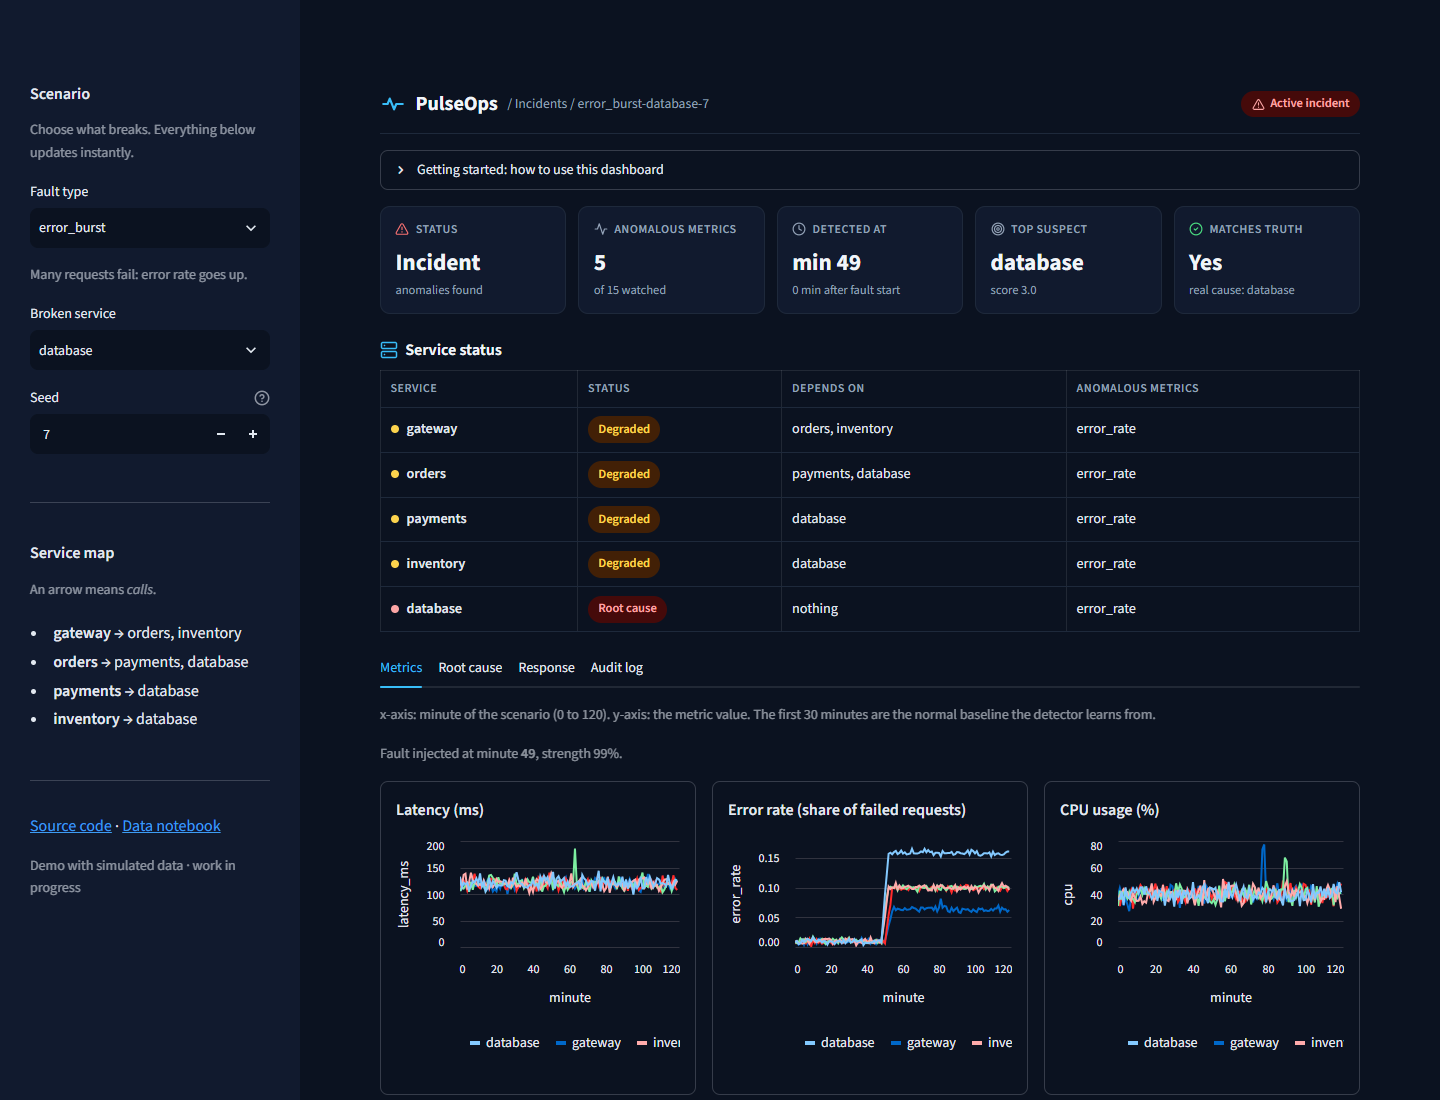
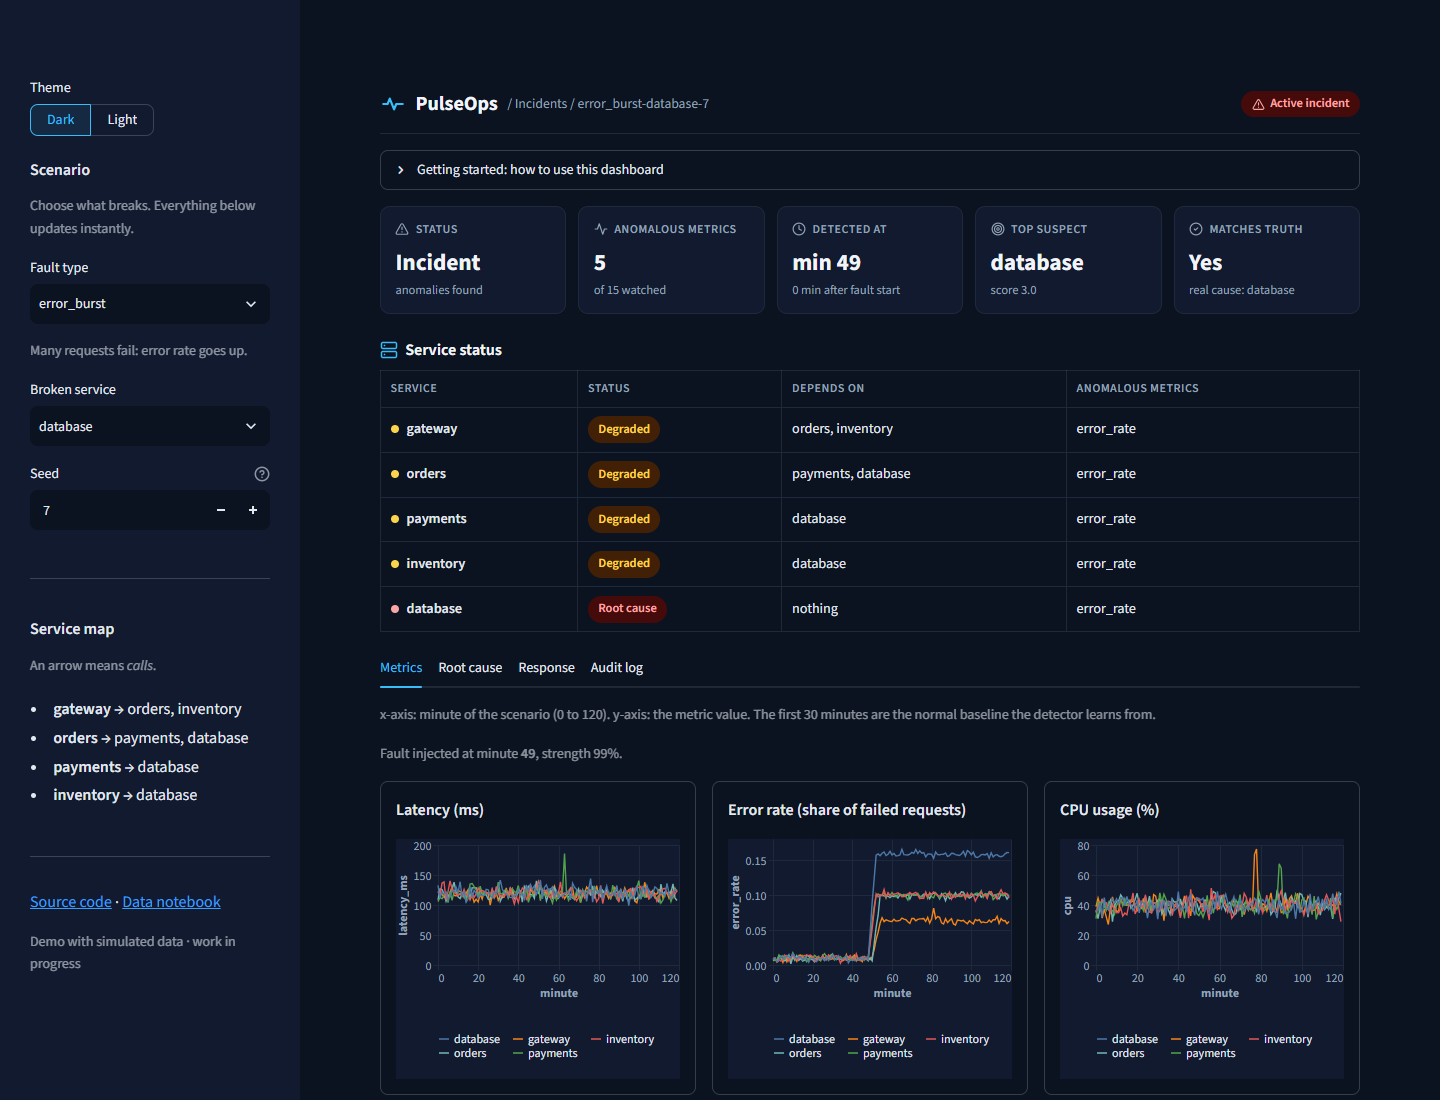
Dark/light theme switch in the sidebar, themed Altair charts, light screenshot

diff --git a/src/pulseops/ui.py b/src/pulseops/ui.py
@@ -6,6 +6,9 @@ Icon shapes are from Lucide (https://lucide.dev, ISC licence): 24x24, stroked li
 
 import html
 
+import altair as alt
+import pandas as pd
+
 ICONS = {
     "activity": '<path d="M22 12h-4l-3 9L9 3l-3 9H2"/>',
     "alert": '<path d="m21.73 18-8-14a2 2 0 0 0-3.48 0l-8 14A2 2 0 0 0 4 21h16a2 2 0 0 0 '
@@ -27,78 +30,156 @@ ICONS = {
     "pulse": '<path d="M3 12h4l2-5 4 10 2-5h6"/>',
 }
 
-# Status -> (label, text colour, background colour)
-STATUS = {
-    "root": ("Root cause", "#fca5a5", "#450a0a"),
-    "affected": ("Degraded", "#fcd34d", "#422006"),
-    "ok": ("Operational", "#86efac", "#052e16"),
+# Two palettes. Every colour on the page comes from here, so switching theme is one lookup.
+PALETTES = {
+    "dark": {
+        "bg": "#0b1220",
+        "panel": "#111a2e",
+        "border": "#1e293b",
+        "text": "#e2e8f0",
+        "strong": "#f1f5f9",
+        "muted": "#94a3b8",
+        "accent": "#38bdf8",
+        "red": "#fca5a5",
+        "red_bg": "#450a0a",
+        "amber": "#fcd34d",
+        "amber_bg": "#422006",
+        "green": "#86efac",
+        "green_bg": "#052e16",
+        "num_bg": "#0c4a6e",
+        "num": "#bae6fd",
+    },
+    "light": {
+        "bg": "#ffffff",
+        "panel": "#f8fafc",
+        "border": "#e2e8f0",
+        "text": "#1e293b",
+        "strong": "#0f172a",
+        "muted": "#64748b",
+        "accent": "#0284c7",
+        "red": "#b91c1c",
+        "red_bg": "#fee2e2",
+        "amber": "#b45309",
+        "amber_bg": "#fef3c7",
+        "green": "#15803d",
+        "green_bg": "#dcfce7",
+        "num_bg": "#e0f2fe",
+        "num": "#0369a1",
+    },
 }
 
-CSS = """
+# Status -> (label, colour key). The key picks e.g. "red" and "red_bg" from the palette.
+STATUS = {
+    "root": ("Root cause", "red"),
+    "affected": ("Degraded", "amber"),
+    "ok": ("Operational", "green"),
+}
+
+# Light mode also has to repaint Streamlit's own surfaces, because the base theme
+# in .streamlit/config.toml is dark.
+LIGHT_OVERRIDES = """
+[data-testid="stApp"], [data-testid="stHeader"] {background:#ffffff; color:#1e293b;}
+[data-testid="stSidebar"] {background:#f1f5f9;}
+[data-testid="stSidebar"] *, [data-testid="stMain"] p, [data-testid="stMain"] li,
+[data-testid="stMain"] label, [data-testid="stMarkdownContainer"],
+[data-testid="stCaptionContainer"], [data-testid="stWidgetLabel"] {color:#1e293b;}
+[data-testid="stCaptionContainer"] {opacity:.75;}
+[data-baseweb="select"] > div, [data-testid="stNumberInputContainer"],
+[data-testid="stNumberInput"] input {background:#ffffff; color:#1e293b;
+  border-color:#cbd5e1;}
+[data-testid="stExpander"] details, [data-testid="stVerticalBlockBorderWrapper"] {
+  background:#ffffff; border-color:#e2e8f0;}
+[data-testid="stExpander"] summary, [data-testid="stExpander"] summary * {color:#1e293b;}
+button[data-baseweb="tab"] p {color:#334155;}
+[data-testid="stSelectbox"] div:has(> input), [role="listbox"], [role="option"] {
+  background:#ffffff; color:#1e293b;}
+[data-testid="stButtonGroup"] button[aria-checked="false"] {background:#ffffff;
+  color:#334155; border-color:#cbd5e1;}
+"""
+
+CSS_TEMPLATE = """
 <style>
 .block-container, [data-testid="stMainBlockContainer"] {padding-top: 4.5rem; max-width: 1280px;}
 #MainMenu, footer {visibility: hidden;}
 .po-top {display:flex; align-items:center; justify-content:space-between;
-  border-bottom:1px solid #1e293b; padding-bottom:.8rem; margin-bottom:1rem;}
+  border-bottom:1px solid {border}; padding-bottom:.8rem; margin-bottom:1rem;}
 .po-brand {display:flex; align-items:center; gap:.6rem; font-weight:700; font-size:1.25rem;
-  color:#f1f5f9;}
-.po-crumb {color:#94a3b8; font-size:.85rem; font-weight:400;}
+  color:{strong};}
+.po-brand svg, .po-section svg {color:{accent};}
+.po-crumb {color:{muted}; font-size:.85rem; font-weight:400;}
 .po-pill {display:inline-flex; align-items:center; gap:.35rem; padding:.2rem .65rem;
   border-radius:999px; font-size:.78rem; font-weight:600;}
+.po-red {color:{red}; background:{red_bg};}
+.po-amber {color:{amber}; background:{amber_bg};}
+.po-green {color:{green}; background:{green_bg};}
+.po-dot.po-red, .po-dot.po-amber, .po-dot.po-green {background:currentColor;}
 .po-tiles {display:grid; grid-template-columns:repeat(5, minmax(0,1fr)); gap:.75rem;
   margin-bottom:1rem;}
 @media (max-width: 900px) {.po-tiles {grid-template-columns:repeat(2, minmax(0,1fr));}}
-.po-tile {border:1px solid #1e293b; border-radius:10px; padding:.8rem .9rem; background:#111a2e;}
-.po-tile-head {display:flex; align-items:center; gap:.4rem; color:#94a3b8; font-size:.75rem;
+.po-tile {border:1px solid {border}; border-radius:10px; padding:.8rem .9rem; background:{panel};}
+.po-tile-head {display:flex; align-items:center; gap:.4rem; color:{muted}; font-size:.75rem;
   text-transform:uppercase; letter-spacing:.04em; font-weight:600;}
-.po-tile-value {font-size:1.45rem; font-weight:700; color:#f1f5f9; margin-top:.3rem;}
-.po-tile-sub {font-size:.78rem; color:#94a3b8;}
-.po-section {display:flex; align-items:center; gap:.45rem; font-weight:650; color:#f1f5f9;
+.po-tile-head.po-red, .po-tile-head.po-green {background:none;}
+.po-tile-value {font-size:1.45rem; font-weight:700; color:{strong}; margin-top:.3rem;}
+.po-tile-sub {font-size:.78rem; color:{muted};}
+.po-section {display:flex; align-items:center; gap:.45rem; font-weight:650; color:{strong};
   font-size:1rem; margin:.4rem 0 .5rem;}
 .po-table {width:100%; border-collapse:collapse; font-size:.88rem; margin-bottom:1rem;}
-.po-table th {text-align:left; color:#94a3b8; font-weight:600; font-size:.75rem;
-  text-transform:uppercase; letter-spacing:.04em; border-bottom:1px solid #1e293b;
+.po-table th {text-align:left; color:{muted}; font-weight:600; font-size:.75rem;
+  text-transform:uppercase; letter-spacing:.04em; border-bottom:1px solid {border};
   padding:.5rem .6rem;}
-.po-table td {border-bottom:1px solid #1e293b; padding:.55rem .6rem; color:#e2e8f0;}
+.po-table td {border-bottom:1px solid {border}; padding:.55rem .6rem; color:{text};}
 .po-dot {display:inline-block; width:8px; height:8px; border-radius:50%; margin-right:.5rem;}
 .po-step {display:flex; gap:.7rem; margin:.45rem 0;}
-.po-num {flex:none; width:22px; height:22px; border-radius:50%; background:#0c4a6e;
-  color:#bae6fd; font-size:.75rem; font-weight:700; display:flex; align-items:center;
+.po-num {flex:none; width:22px; height:22px; border-radius:50%; background:{num_bg};
+  color:{num}; font-size:.75rem; font-weight:700; display:flex; align-items:center;
   justify-content:center;}
+{overrides}
 </style>
 """
 
 
-def icon(name: str, color: str = "currentColor", size: int = 16) -> str:
-    """Inline SVG for one icon."""
+def css(mode: str) -> str:
+    """The page's <style> block for "dark" or "light"."""
+    style = CSS_TEMPLATE
+    for key, value in PALETTES[mode].items():
+        style = style.replace("{" + key + "}", value)
+    return style.replace("{overrides}", LIGHT_OVERRIDES if mode == "light" else "")
+
+
+def icon(name: str, size: int = 16) -> str:
+    """Inline SVG for one icon. It takes the text colour of whatever it sits in."""
     return (
         f'<svg xmlns="http://www.w3.org/2000/svg" width="{size}" height="{size}" '
-        f'viewBox="0 0 24 24" fill="none" stroke="{color}" stroke-width="2" '
+        f'viewBox="0 0 24 24" fill="none" stroke="currentColor" stroke-width="2" '
         f'stroke-linecap="round" stroke-linejoin="round">{ICONS[name]}</svg>'
     )
 
 
-def pill(text: str, fg: str, bg: str, icon_name: str | None = None) -> str:
-    inner = (icon(icon_name, fg, 13) if icon_name else "") + html.escape(text)
-    return f'<span class="po-pill" style="color:{fg};background:{bg}">{inner}</span>'
+def pill(text: str, tone: str, icon_name: str | None = None) -> str:
+    """tone: red, amber or green."""
+    inner = (icon(icon_name, 13) if icon_name else "") + html.escape(text)
+    return f'<span class="po-pill po-{tone}">{inner}</span>'
 
 
 def top_bar(incident: str, is_incident: bool) -> str:
     status = (
-        pill("Active incident", "#fca5a5", "#450a0a", "alert")
+        pill("Active incident", "red", "alert")
         if is_incident
-        else pill("All systems operational", "#86efac", "#052e16", "check")
+        else pill("All systems operational", "green", "check")
     )
     return (
-        f'<div class="po-top"><div class="po-brand">{icon("pulse", "#38bdf8", 26)}PulseOps'
+        f'<div class="po-top"><div class="po-brand">{icon("pulse", 26)}PulseOps'
         f'<span class="po-crumb">/ Incidents / {html.escape(incident)}</span></div>'
         f"{status}</div>"
     )
 
 
-def tile(icon_name: str, label: str, value: str, sub: str = "", color: str = "#94a3b8") -> str:
+def tile(icon_name: str, label: str, value: str, sub: str = "", tone: str = "") -> str:
+    """One summary card. tone ("red"/"green") colours the label line; empty = grey."""
+    tone_class = f" po-{tone}" if tone else ""
     return (
-        f'<div class="po-tile"><div class="po-tile-head">{icon(icon_name, color, 14)}'
+        f'<div class="po-tile"><div class="po-tile-head{tone_class}">{icon(icon_name, 14)}'
         f'{html.escape(label)}</div><div class="po-tile-value">{html.escape(value)}</div>'
         f'<div class="po-tile-sub">{html.escape(sub) or "&nbsp;"}</div></div>'
     )
@@ -109,18 +190,18 @@ def tiles(items: list[str]) -> str:
 
 
 def section(icon_name: str, title: str) -> str:
-    return f'<div class="po-section">{icon(icon_name, "#38bdf8", 18)}{html.escape(title)}</div>'
+    return f'<div class="po-section">{icon(icon_name, 18)}{html.escape(title)}</div>'
 
 
 def service_table(rows: list[dict]) -> str:
     """rows: service, status (root/affected/ok), calls, anomalies."""
     body = ""
     for row in rows:
-        label, fg, bg = STATUS[row["status"]]
+        label, tone = STATUS[row["status"]]
         body += (
-            f'<tr><td><span class="po-dot" style="background:{fg}"></span>'
+            f'<tr><td><span class="po-dot po-{tone}"></span>'
             f"<b>{html.escape(row['service'])}</b></td>"
-            f"<td>{pill(label, fg, bg)}</td>"
+            f"<td>{pill(label, tone)}</td>"
             f"<td>{html.escape(row['calls'])}</td>"
             f"<td>{html.escape(row['anomalies'])}</td></tr>"
         )
@@ -136,4 +217,33 @@ def steps(items: list[str]) -> str:
     return "".join(
         f'<div class="po-step"><div class="po-num">{n}</div><div>{text}</div></div>'
         for n, text in enumerate(items, start=1)
+    )
+
+
+def line_chart(data: pd.DataFrame, y_label: str, mode: str) -> alt.Chart:
+    """One line per service over time, coloured to match the current theme.
+
+    `data` has the minute as its index and one column per service.
+    """
+    p = PALETTES[mode]
+    long = data.reset_index(names="minute").melt("minute", var_name="service", value_name="value")
+    return (
+        alt.Chart(long, height=240)
+        .mark_line(strokeWidth=1.4)
+        .encode(
+            x=alt.X("minute:Q", title="minute"),
+            y=alt.Y("value:Q", title=y_label),
+            color=alt.Color("service:N", legend=alt.Legend(orient="bottom", title=None, columns=3)),
+            tooltip=["minute", "service", alt.Tooltip("value:Q", format=".3f")],
+        )
+        .configure(background=p["panel"])
+        .configure_axis(
+            labelColor=p["muted"],
+            titleColor=p["muted"],
+            gridColor=p["border"],
+            domainColor=p["border"],
+            tickColor=p["border"],
+        )
+        .configure_legend(labelColor=p["text"])
+        .configure_view(stroke=None)
     )

diff --git a/src/pulseops/app.py b/src/pulseops/app.py
@@ -28,11 +28,15 @@ FAULT_HELP = {
 }
 
 st.set_page_config(page_title="PulseOps", layout="wide")
-st.markdown(ui.CSS, unsafe_allow_html=True)
 
 
-def sidebar() -> tuple[str | None, str, int]:
+def sidebar() -> tuple[str | None, str, int, str]:
     with st.sidebar:
+        theme = st.segmented_control(
+            "Theme",
+            ["Dark", "Light"],
+            default="Light" if st.query_params.get("theme") == "light" else "Dark",
+        )
         st.markdown("#### Scenario")
         st.caption("Choose what breaks. Everything below updates instantly.")
         # Optional link presets, e.g. ?fault=error_burst&service=database, so a scenario
@@ -74,7 +78,9 @@ def sidebar() -> tuple[str | None, str, int]:
         )
         st.caption("Demo with simulated data · work in progress")
     fault_kind = None if kind == HEALTHY else kind
-    return fault_kind, service, int(seed)
+    # Clicking the selected option again clears it, so fall back to dark.
+    mode = "light" if theme == "Light" else "dark"
+    return fault_kind, service, int(seed), mode
 
 
 def status_of(service: str, anomalies, suspects) -> str:
@@ -115,7 +121,8 @@ def show_guide() -> None:
         )
 
 
-fault_kind, service, seed = sidebar()
+fault_kind, service, seed, mode = sidebar()
+st.markdown(ui.css(mode), unsafe_allow_html=True)
 scenario = make_scenario(fault_kind, service, seed)
 anomalies = detect(scenario.metrics)
 suspects = rank_suspects(anomalies, scenario.deploys)
@@ -134,7 +141,7 @@ items = [
         "Status",
         "Incident" if anomalies else "Healthy",
         "anomalies found" if anomalies else "no anomalies",
-        "#f87171" if anomalies else "#4ade80",
+        "red" if anomalies else "green",
     ),
     ui.tile("activity", "Anomalous metrics", str(len(anomalies)), "of 15 watched"),
     ui.tile(
@@ -155,7 +162,7 @@ if scenario.fault:
             "Matches truth",
             "Yes" if correct else "No",
             f"real cause: {scenario.fault.service}",
-            "#4ade80" if correct else "#f87171",
+            "green" if correct else "red",
         )
     )
 else:
@@ -165,7 +172,7 @@ else:
             "False alarm",
             "Yes" if anomalies else "No",
             "healthy run",
-            "#f87171" if anomalies else "#4ade80",
+            "red" if anomalies else "green",
         )
     )
 st.markdown(ui.tiles(items), unsafe_allow_html=True)
@@ -204,7 +211,9 @@ with tab_metrics:
             st.markdown(f"**{METRIC_LABELS.get(metric, metric)}**")
             columns = [column(s, metric) for s in SERVICES]
             chart_data = scenario.metrics[columns].rename(columns=lambda c: c.split(".")[0])
-            st.line_chart(chart_data, x_label="minute", y_label=metric, height=240)
+            st.altair_chart(
+                ui.line_chart(chart_data, metric, mode), theme=None, use_container_width=True
+            )
     if scenario.deploys:
         st.markdown(ui.section("rocket", "Deploys"), unsafe_allow_html=True)
         st.dataframe(

diff --git a/README.md b/README.md
@@ -4,6 +4,8 @@
 
 ![PulseOps dashboard: a database error burst, traced to its root cause](docs/figures/dashboard.png)
 
+<sub>Dark theme shown. Switch to light in the sidebar ([screenshot](docs/figures/dashboard-light.png)). Open a scenario directly with a link like `?fault=error_burst&service=database&theme=light`.</sub>
+
 > **Status: work in progress.** The core pipeline works and is measured. Live demo,
 > demo video and real Prometheus data are still being added.
 
